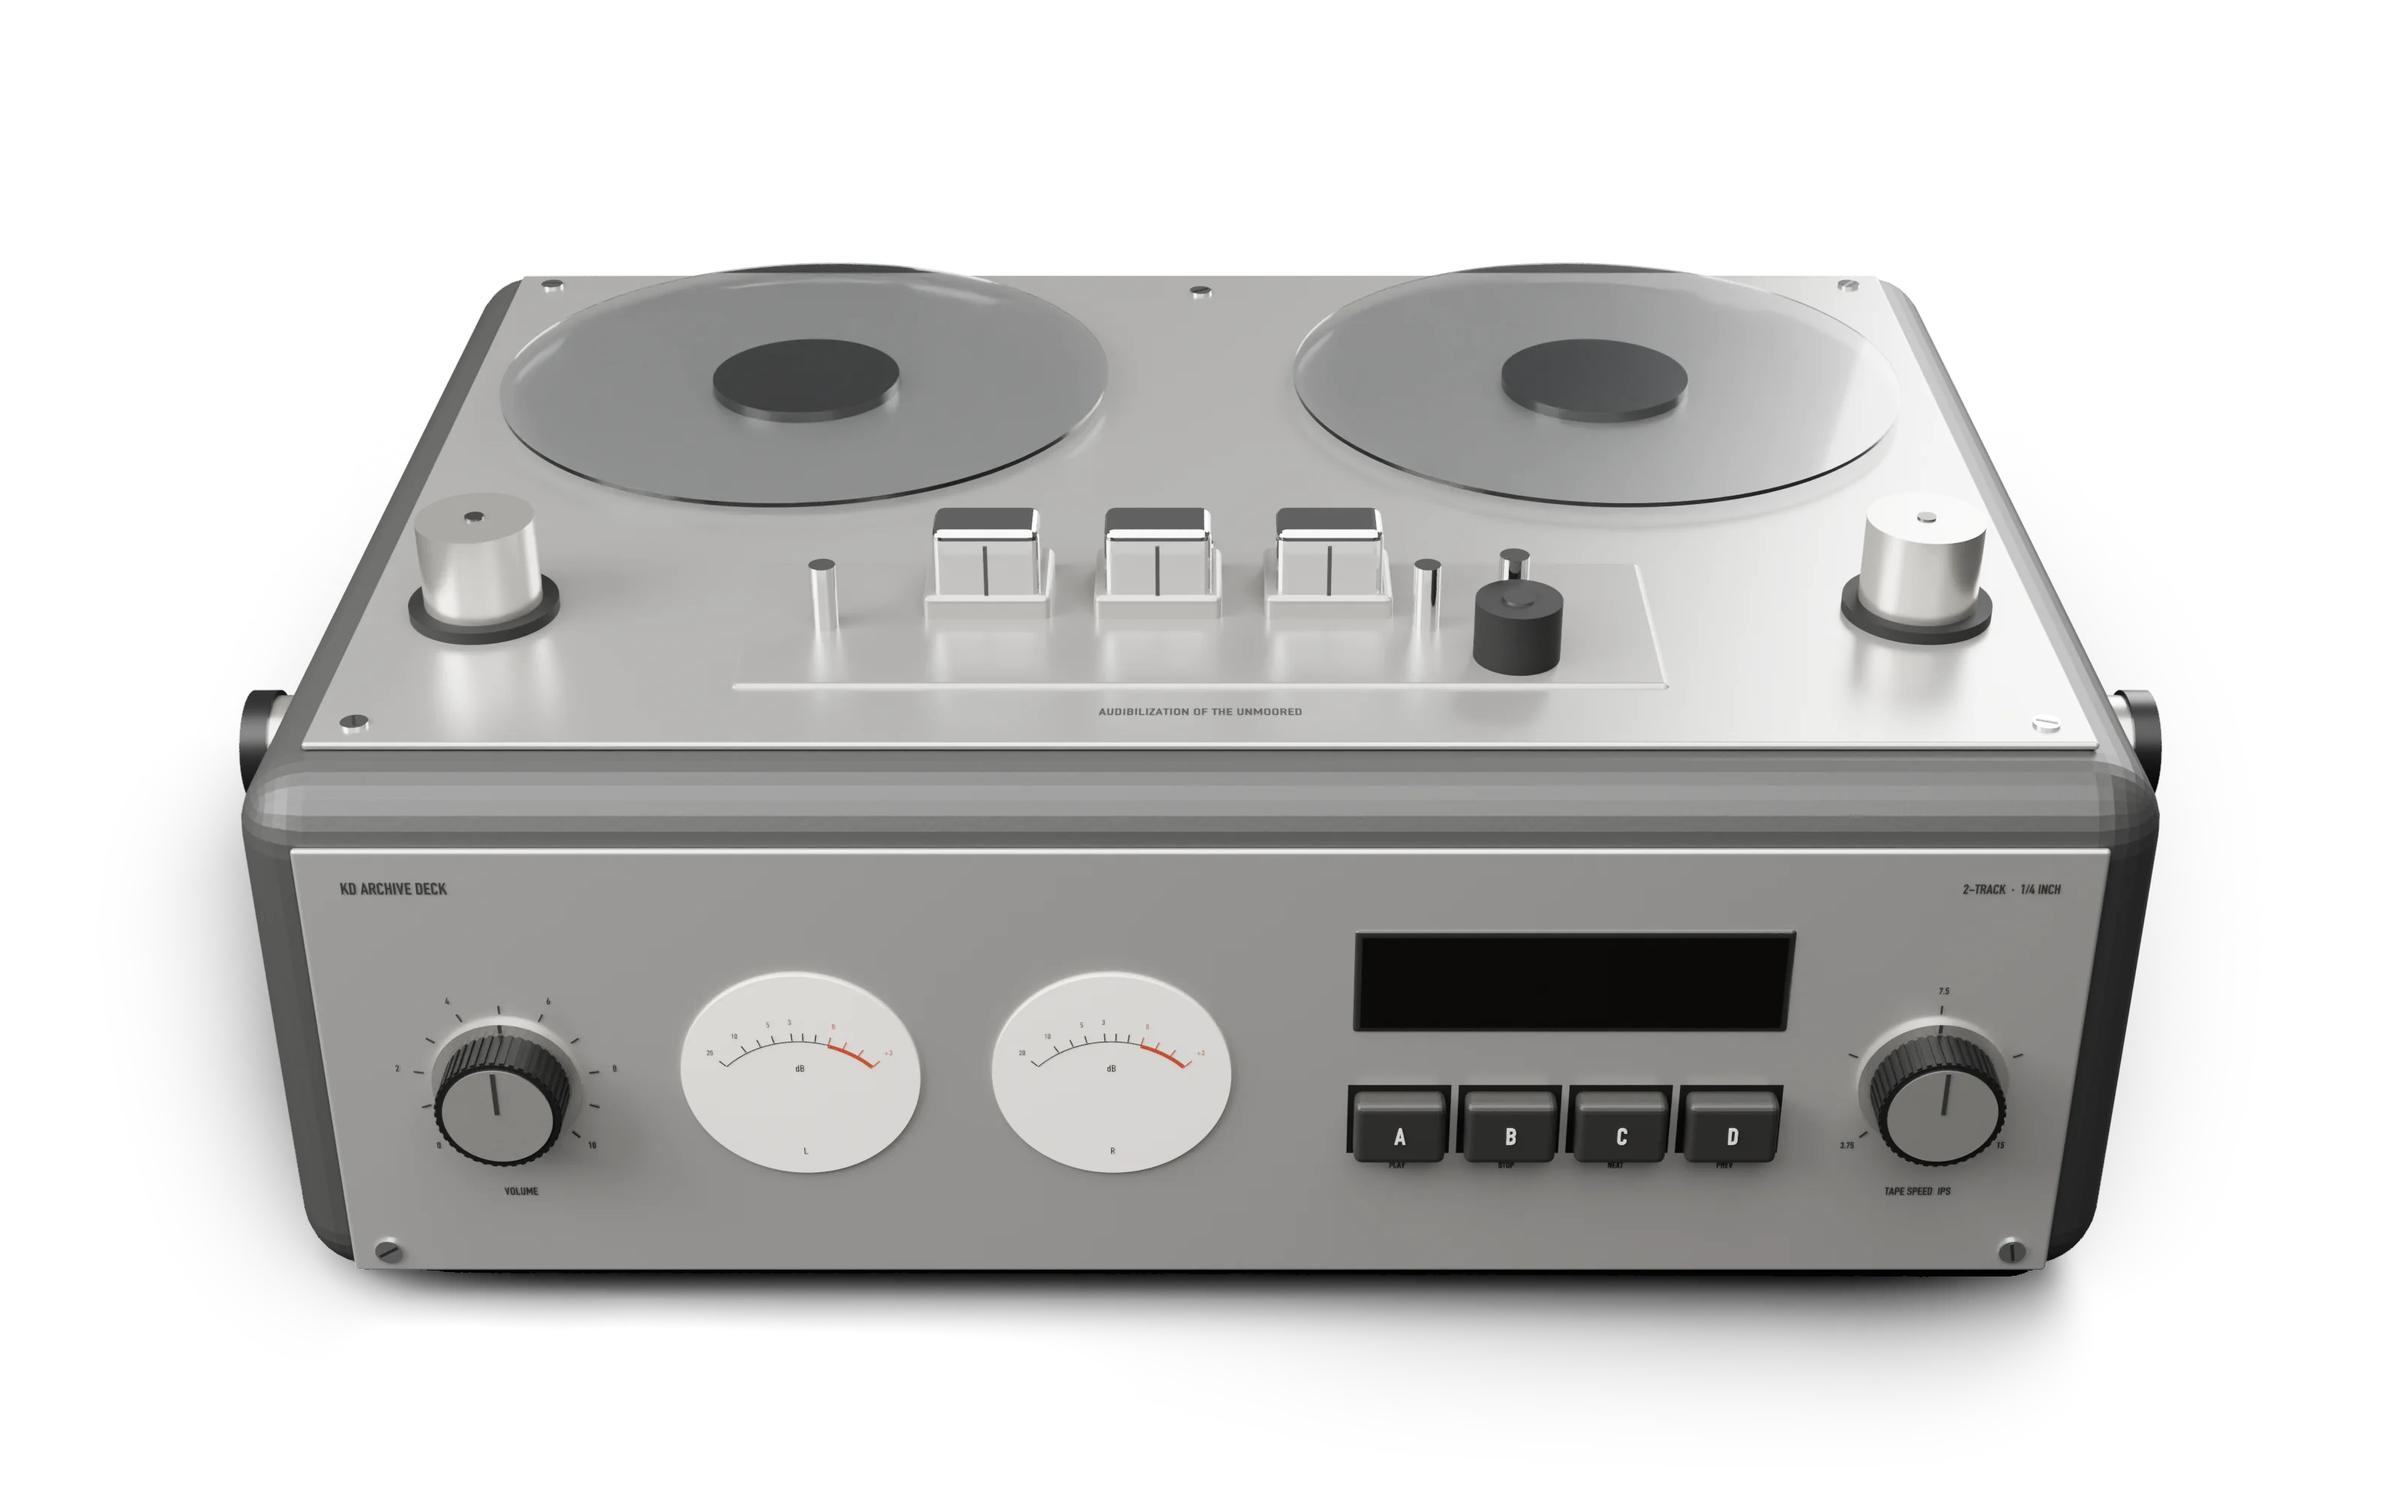
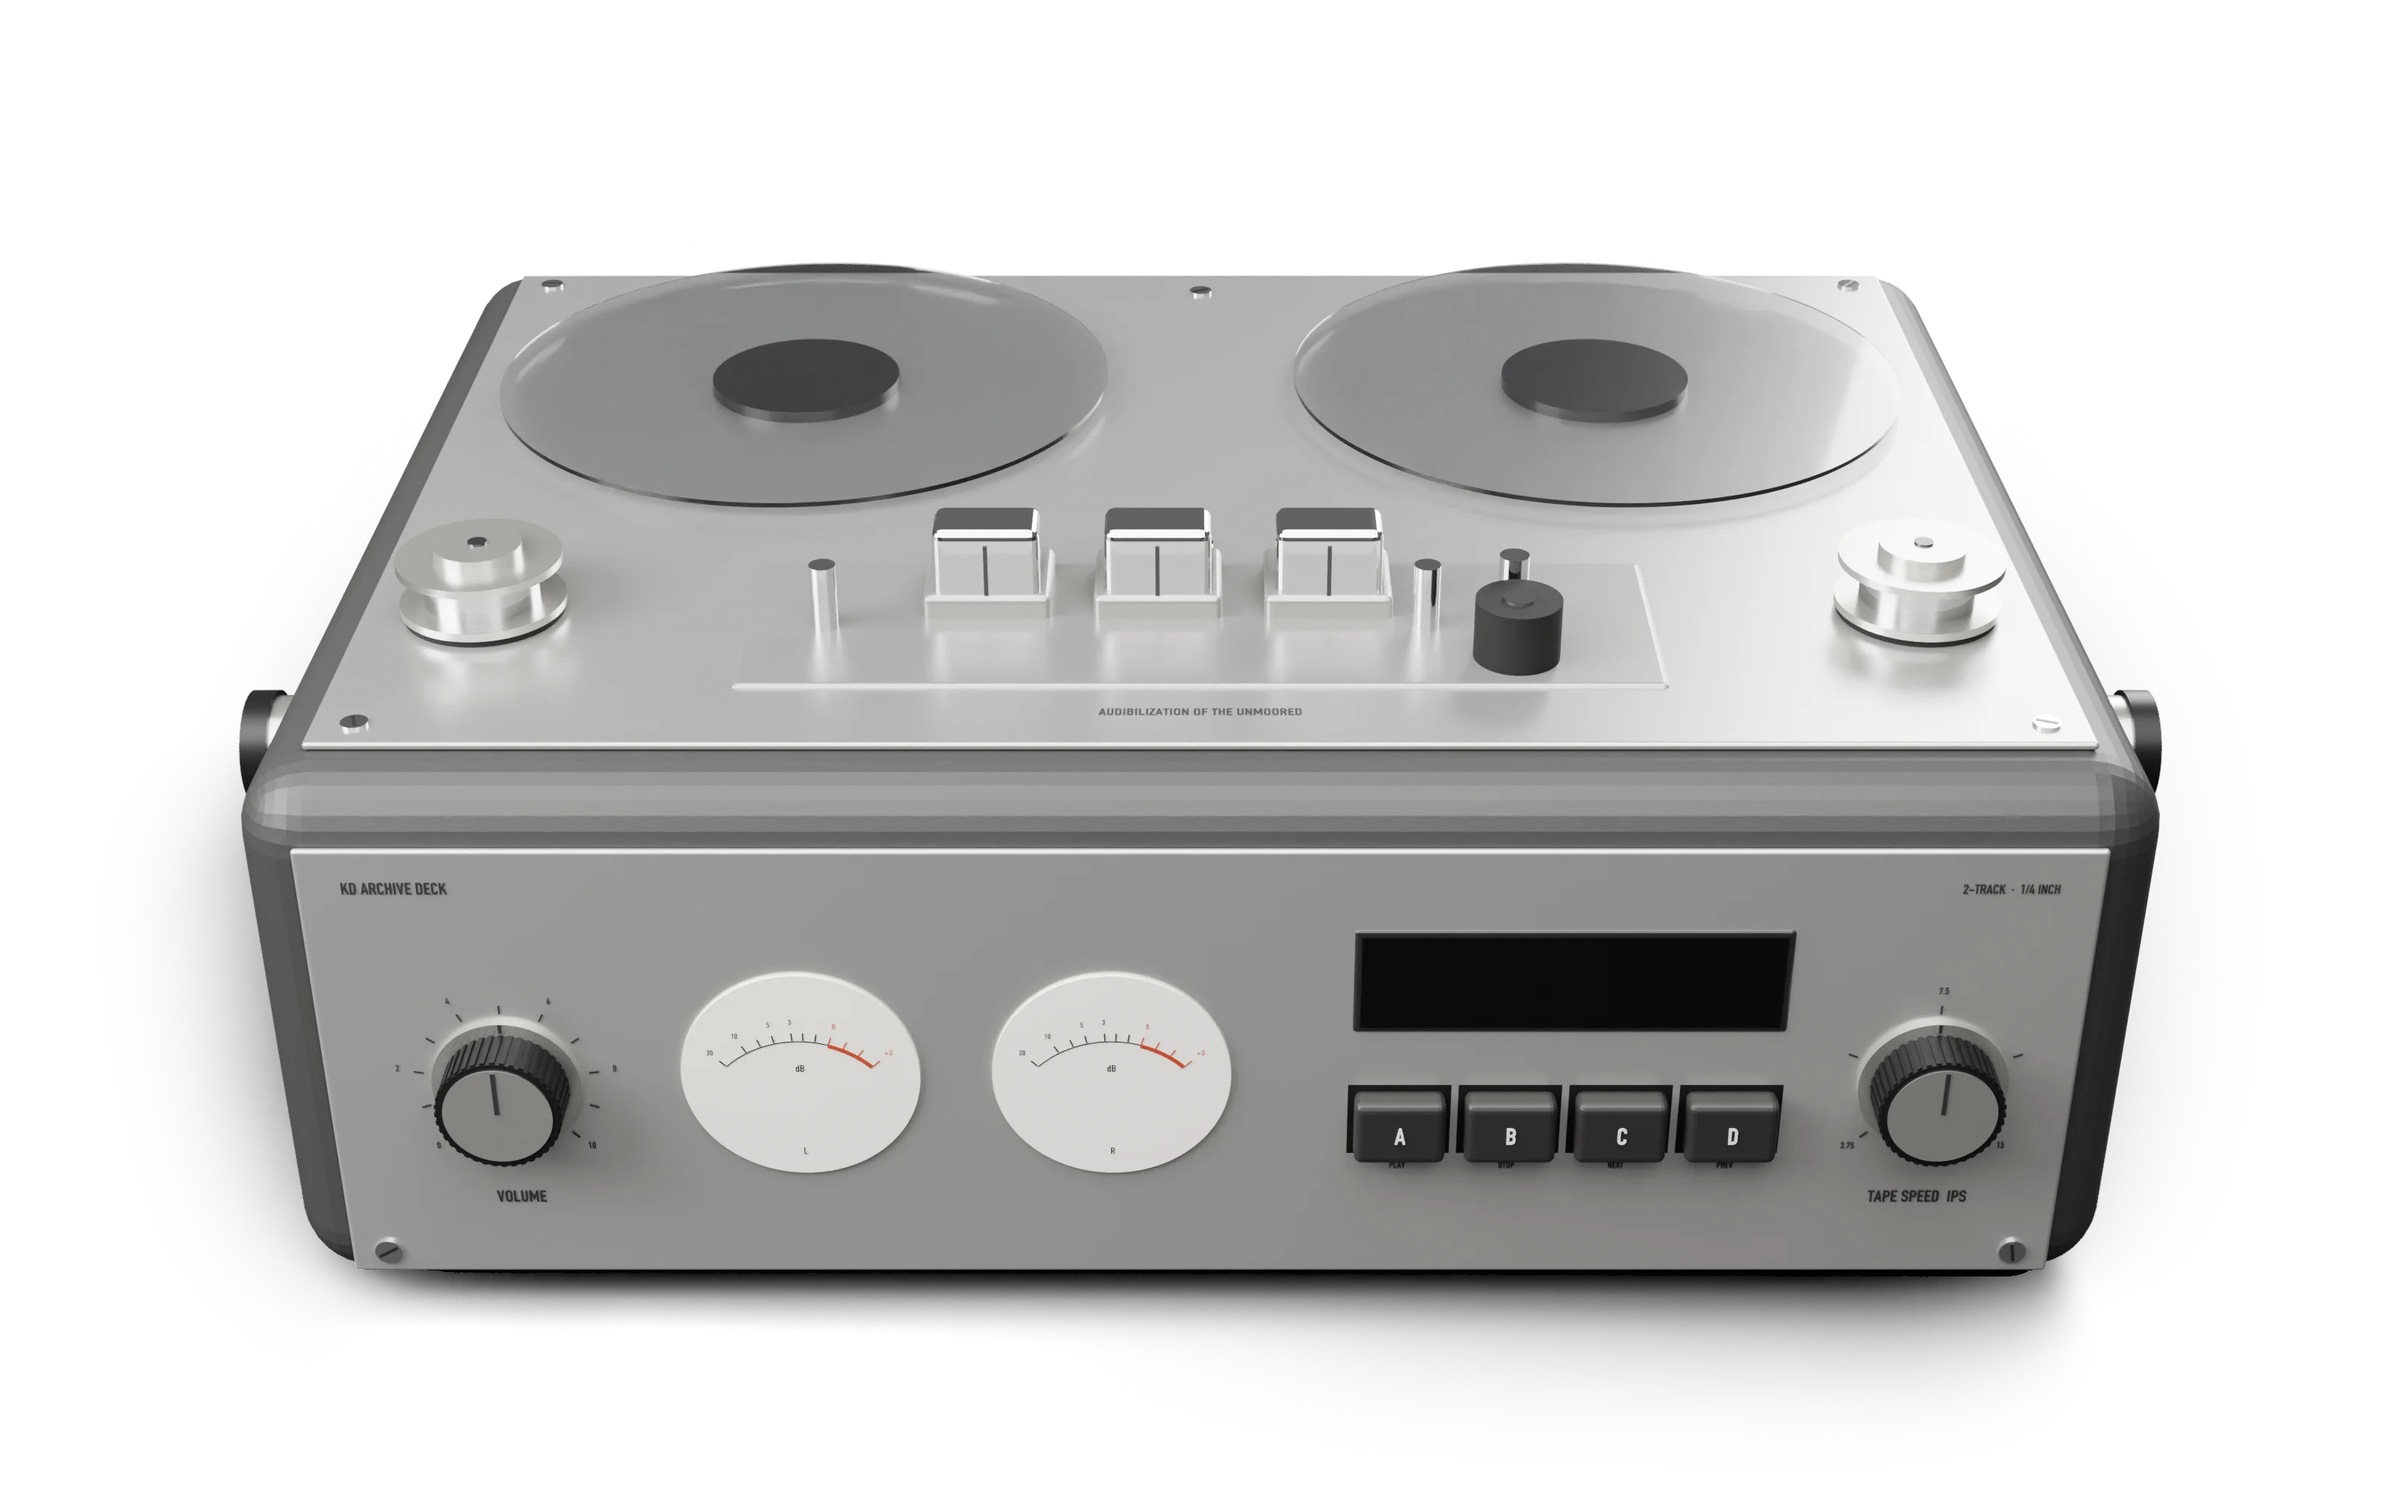
Add files via upload

Changed region(s): [[0.75, 0.341, 0.8438, 0.465], [0.1562, 0.341, 0.25, 0.434], [0.7812, 0.775, 0.8125, 0.806]]

diff --git a/blender/tape_deck.py b/blender/tape_deck.py
@@ -4,7 +4,8 @@ KD Archive Deck (Portable) — Blender 4.0 build & layer render script
 Blender > Scripting 탭 > Text > Open 으로 이 파일을 열고 ▶ Run Script.
 
 1) MODE = "preview" : 장면을 만들고 원근 미리보기 한 장만 렌더 (2~4분)
-2) MODE = "all"     : 웹사이트용 레이어 전부 렌더 (20~30분)
+2) MODE = "plate"   : 본체 · 롤러 위 플랜지 · layout.json만 다시 렌더 (5분 안팎)
+3) MODE = "all"     : 웹사이트용 레이어 전부 렌더 (20~30분)
    - 릴 회전 프레임, 노브 프레임, 버튼, 미터 유리, 본체, 카메라 투영 정보(layout.json)
    렌더하는 동안 Blender 화면이 멈춘 것처럼 보이는 건 정상입니다.
 
@@ -17,7 +18,7 @@ from bpy_extras.object_utils import world_to_camera_view
 # ------------------------------------------------------------------
 # 설정
 # ------------------------------------------------------------------
-MODE        = "preview"   # "preview" 또는 "all"
+MODE        = "preview"   # "preview", "plate"(본체·롤러·layout만, 5분), "all"(전부, 20~30분)
 SCALE       = 2           # 2 = 레티나용 3200x2000 기준
 SAMPLES     = 64          # 노이즈가 보이면 128
 REEL_FRAMES = 30          # 릴 120° 회전을 몇 장으로 나눌지
@@ -35,10 +36,10 @@ FRONT_Y = -BD / 2
 # 윗면 (TOP 로컬 좌표: x, y = 윗면 위 위치, z = 윗면에서 높이)
 REEL_C   = [(-0.085, 0.045), (0.085, 0.045)]
 REEL_R, PACK_R, HUB_R = 0.065, 0.058, 0.012
-PACK_Z   = (0.006, 0.010)                     # 감긴 테이프 아래·위 높이
+PACK_Z   = (0.0051, 0.0113)                   # 감긴 테이프 아래·위 높이 (1/4인치 폭)
 ROLLERS  = [(-0.135, -0.06), (0.135, -0.06)]
 ROLLER_R = 0.011
-TAPE_Z   = (0.0045, 0.011)                    # 테이프 띠 아래·위 높이
+TAPE_Z   = (0.0051, 0.0113)                   # 테이프 띠 아래·위 높이 (롤러 홈 안)
 TAPE_Y   = ROLLERS[0][1] - ROLLER_R
 
 # 앞면 (FRONT 로컬 좌표: x, y = 바닥에서 높이, z = 앞면에서 튀어나온 거리)
@@ -309,9 +310,14 @@ reg(on(TOP, cyl("Capstan", 0.058, TAPE_Y + 0.0035, 0.009, 0.0028, 0.016, M["chro
 reg(on(TOP, cyl("Pinch Roller", 0.058, TAPE_Y - 0.0085, 0.008, 0.008, 0.012, M["rubber"])), "plate")
 reg(on(TOP, cyl("Pinch Cap", 0.058, TAPE_Y - 0.0085, 0.0142, 0.003, 0.0006, M["chrome"], seg=32)), "plate")
 for i, (rx, ry) in enumerate(ROLLERS):
-    reg(on(TOP, cyl(f"Roller Base {i}", rx, ry, 0.002, ROLLER_R + 0.003, 0.004, M["rubber"])), "plate")
-    reg(on(TOP, cyl(f"Roller {i}", rx, ry, 0.011, ROLLER_R, 0.02, M["satin"])), "plate")
-    reg(on(TOP, cyl(f"Roller Screw {i}", rx, ry, 0.0212, 0.0018, 0.0004, M["hub"], seg=24)), "plate")
+    # 가이드 롤러: 아래 플랜지 · 테이프가 감기는 홈 · 위 플랜지 · 캡
+    s = "LR"[i]
+    reg(on(TOP, cyl(f"Roller Base {i}", rx, ry, 0.0015, ROLLER_R + 0.004, 0.003, M["rubber"])), "plate")
+    reg(on(TOP, cyl(f"Roller Lower Flange {i}", rx, ry, 0.0038, ROLLER_R + 0.0045, 0.0016, M["satin"])), "plate")
+    reg(on(TOP, cyl(f"Roller Hub {i}", rx, ry, 0.0082, ROLLER_R, 0.0072, M["chrome"])), "plate")
+    reg(on(TOP, cyl(f"Roller Upper Flange {i}", rx, ry, 0.0126, ROLLER_R + 0.0045, 0.0016, M["satin"])), "plate", f"roller_top_{s}")
+    reg(on(TOP, cyl(f"Roller Cap {i}", rx, ry, 0.0146, ROLLER_R * 0.75, 0.0024, M["satin"])), "plate", f"roller_top_{s}")
+    reg(on(TOP, cyl(f"Roller Screw {i}", rx, ry, 0.0160, 0.0018, 0.0004, M["hub"], seg=24)), "plate", f"roller_top_{s}")
 for k, (x, y) in enumerate([(-0.15, 0.104), (0.15, 0.104), (-0.15, -0.104), (0.15, -0.104),
                             (0, 0.1), (0, -0.032), (-0.075, -0.052), (0.075, -0.052)]):
     screw(f"T{k}", TOP, x, y, rot=(k * 53) % 180)
@@ -386,8 +392,8 @@ for key, (cx, cy) in KNOBS.items():
 
 knob_scale("Vol Scale", *KNOBS["volume"], [(i / 10, str(i)) for i in range(0, 11, 2)], [i / 10 for i in range(11)])
 knob_scale("Spd Scale", *KNOBS["speed"], [(0, "3.75"), (0.5, "7.5"), (1, "15")], [0, 0.25, 0.5, 0.75, 1])
-reg(on(FRONT, text("Label Volume", "VOLUME", KNOBS["volume"][0], 0.0255, 0.0032, M["ink"], z=0.0018)), "plate")
-reg(on(FRONT, text("Label Speed", "TAPE SPEED  IPS", KNOBS["speed"][0], 0.0255, 0.0032, M["ink"], z=0.0018)), "plate")
+reg(on(FRONT, text("Label Volume", "VOLUME", KNOBS["volume"][0], 0.0242, 0.0048, M["ink"], z=0.0018)), "plate")
+reg(on(FRONT, text("Label Speed", "TAPE SPEED  IPS", KNOBS["speed"][0], 0.0242, 0.0048, M["ink"], z=0.0018)), "plate")
 
 dcx, dcy, dw, dh = DISPLAY
 reg(on(FRONT, box("Display Frame", dcx, dcy, 0.001, dw + 0.003, dh + 0.003, 0.002, M["hub"], bevel=0.001)), "plate")
@@ -571,7 +577,7 @@ def frames(prefix, groups, box_px, count, set_frame, samples):
     except Exception as ex:
         print("프레임 합치기 실패 (개별 프레임은 frames/ 폴더):", prefix, ex)
 
-ALL = [g for g in G if g not in ("catcher", "tape_preview")]
+ALL = [g for g in G if g not in ("catcher", "tape_preview") and not g.startswith("roller_top")]
 
 def preview_pose():
     G["pack_R"][0].scale = (0.55, 0.55, 1)
@@ -595,24 +601,32 @@ preview_pose()
 render("preview.png", ALL + ["tape_preview"] + (["catcher"] if SHADOW else []), glass_alpha=False)
 neutral_pose()
 
-if MODE == "all":
+if MODE in ("all", "plate"):
+    FULL = MODE == "all"
     layers = {}
     # 본체: 노브·버튼은 기본 상태로 함께 렌더해 그림자를 남김 (위에 프레임 이미지가 덮음)
     keep = ["plate"] + (["catcher"] if SHADOW else []) + [f"knob_{k}" for k in KNOBS] + [f"key_{l}" for l, _, _ in KEYS]
     render("plate.png", keep, glass_alpha=False)
     layers["plate"] = {"file": "plate.png", "box": [0, 0, 1600, 1000]}
 
+    # 롤러 위 플랜지: 웹에서 테이프 위에 덮어 그림 (테이프가 롤러 홈에 걸린 모습)
+    layers["roller_tops"] = []
+    for s in "LR":
+        b = group_box([f"roller_top_{s}"], margin=6)
+        render(f"roller_top_{s}.png", [f"roller_top_{s}"], b)
+        layers["roller_tops"].append({"file": f"roller_top_{s}.png", "box": b})
+
     layers["glass"] = []
     for s in "LR":
         b = group_box([f"vutop_{s}"])
-        render(f"glass_{s}.png", [f"vutop_{s}"], b)
+        if FULL: render(f"glass_{s}.png", [f"vutop_{s}"], b)
         layers["glass"].append({"file": f"glass_{s}.png", "box": b})
 
     layers["reels"] = []
     for s in "LR":
         b = group_box([f"reel_{s}"])
         def setf(k, s=s): REEL_EMPTY[s].rotation_euler.z = -math.radians(120 * k / REEL_FRAMES)
-        frames(f"reel_{s}", [f"reel_{s}"], b, REEL_FRAMES, setf, max(32, SAMPLES // 2))
+        if FULL: frames(f"reel_{s}", [f"reel_{s}"], b, REEL_FRAMES, setf, max(32, SAMPLES // 2))
         REEL_EMPTY[s].rotation_euler.z = 0
         layers["reels"].append({"file": f"reel_{s}_strip.png", "box": b, "frames": REEL_FRAMES,
                                 "deg_per_frame": 120 / REEL_FRAMES, "direction": "clockwise_from_top"})
@@ -621,7 +635,7 @@ if MODE == "all":
     for key in KNOBS:
         b = group_box([f"knob_{key}"])
         def setk(k, key=key): KNOB_EMPTY[key].rotation_euler.z = -math.radians(-135 + 270 * k / (KNOB_FRAMES - 1))
-        frames(f"knob_{key}", [f"knob_{key}"], b, KNOB_FRAMES, setk, max(24, SAMPLES // 2))
+        if FULL: frames(f"knob_{key}", [f"knob_{key}"], b, KNOB_FRAMES, setk, max(24, SAMPLES // 2))
         KNOB_EMPTY[key].rotation_euler.z = 0
         layers["knobs"][key] = {"file": f"knob_{key}_strip.png", "box": b, "frames": KNOB_FRAMES,
                                 "angle_min": -135, "angle_max": 135}
@@ -630,9 +644,9 @@ if MODE == "all":
     for letter, x, _ in KEYS:
         b = group_box([f"key_{letter}"], margin=6)
         KEY_EMPTY[letter].location.z = 0
-        render(f"key_{letter}_up.png", [f"key_{letter}"], b)
+        if FULL: render(f"key_{letter}_up.png", [f"key_{letter}"], b)
         KEY_EMPTY[letter].location.z = -0.0015
-        render(f"key_{letter}_down.png", [f"key_{letter}"], b)
+        if FULL: render(f"key_{letter}_down.png", [f"key_{letter}"], b)
         KEY_EMPTY[letter].location.z = 0
         layers["keys"].append({"letter": letter, "up": f"key_{letter}_up.png", "down": f"key_{letter}_down.png", "box": b})
 
